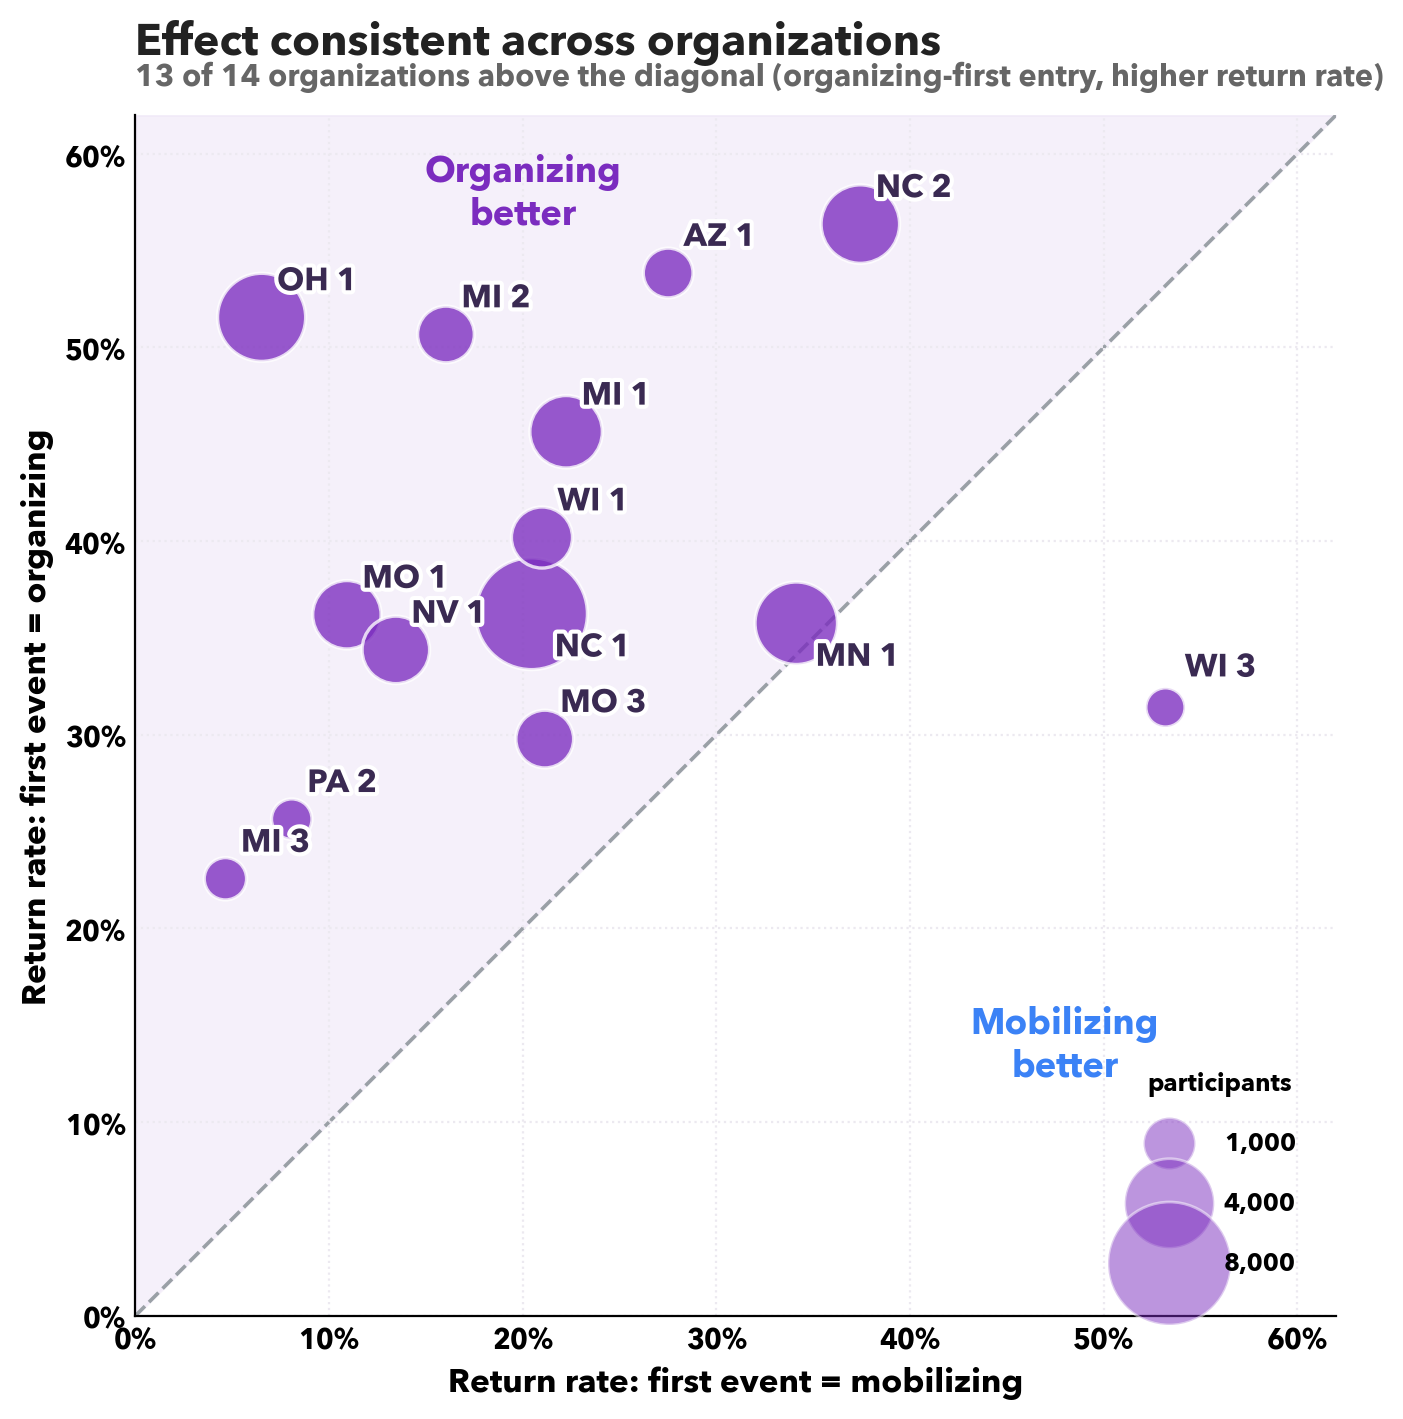
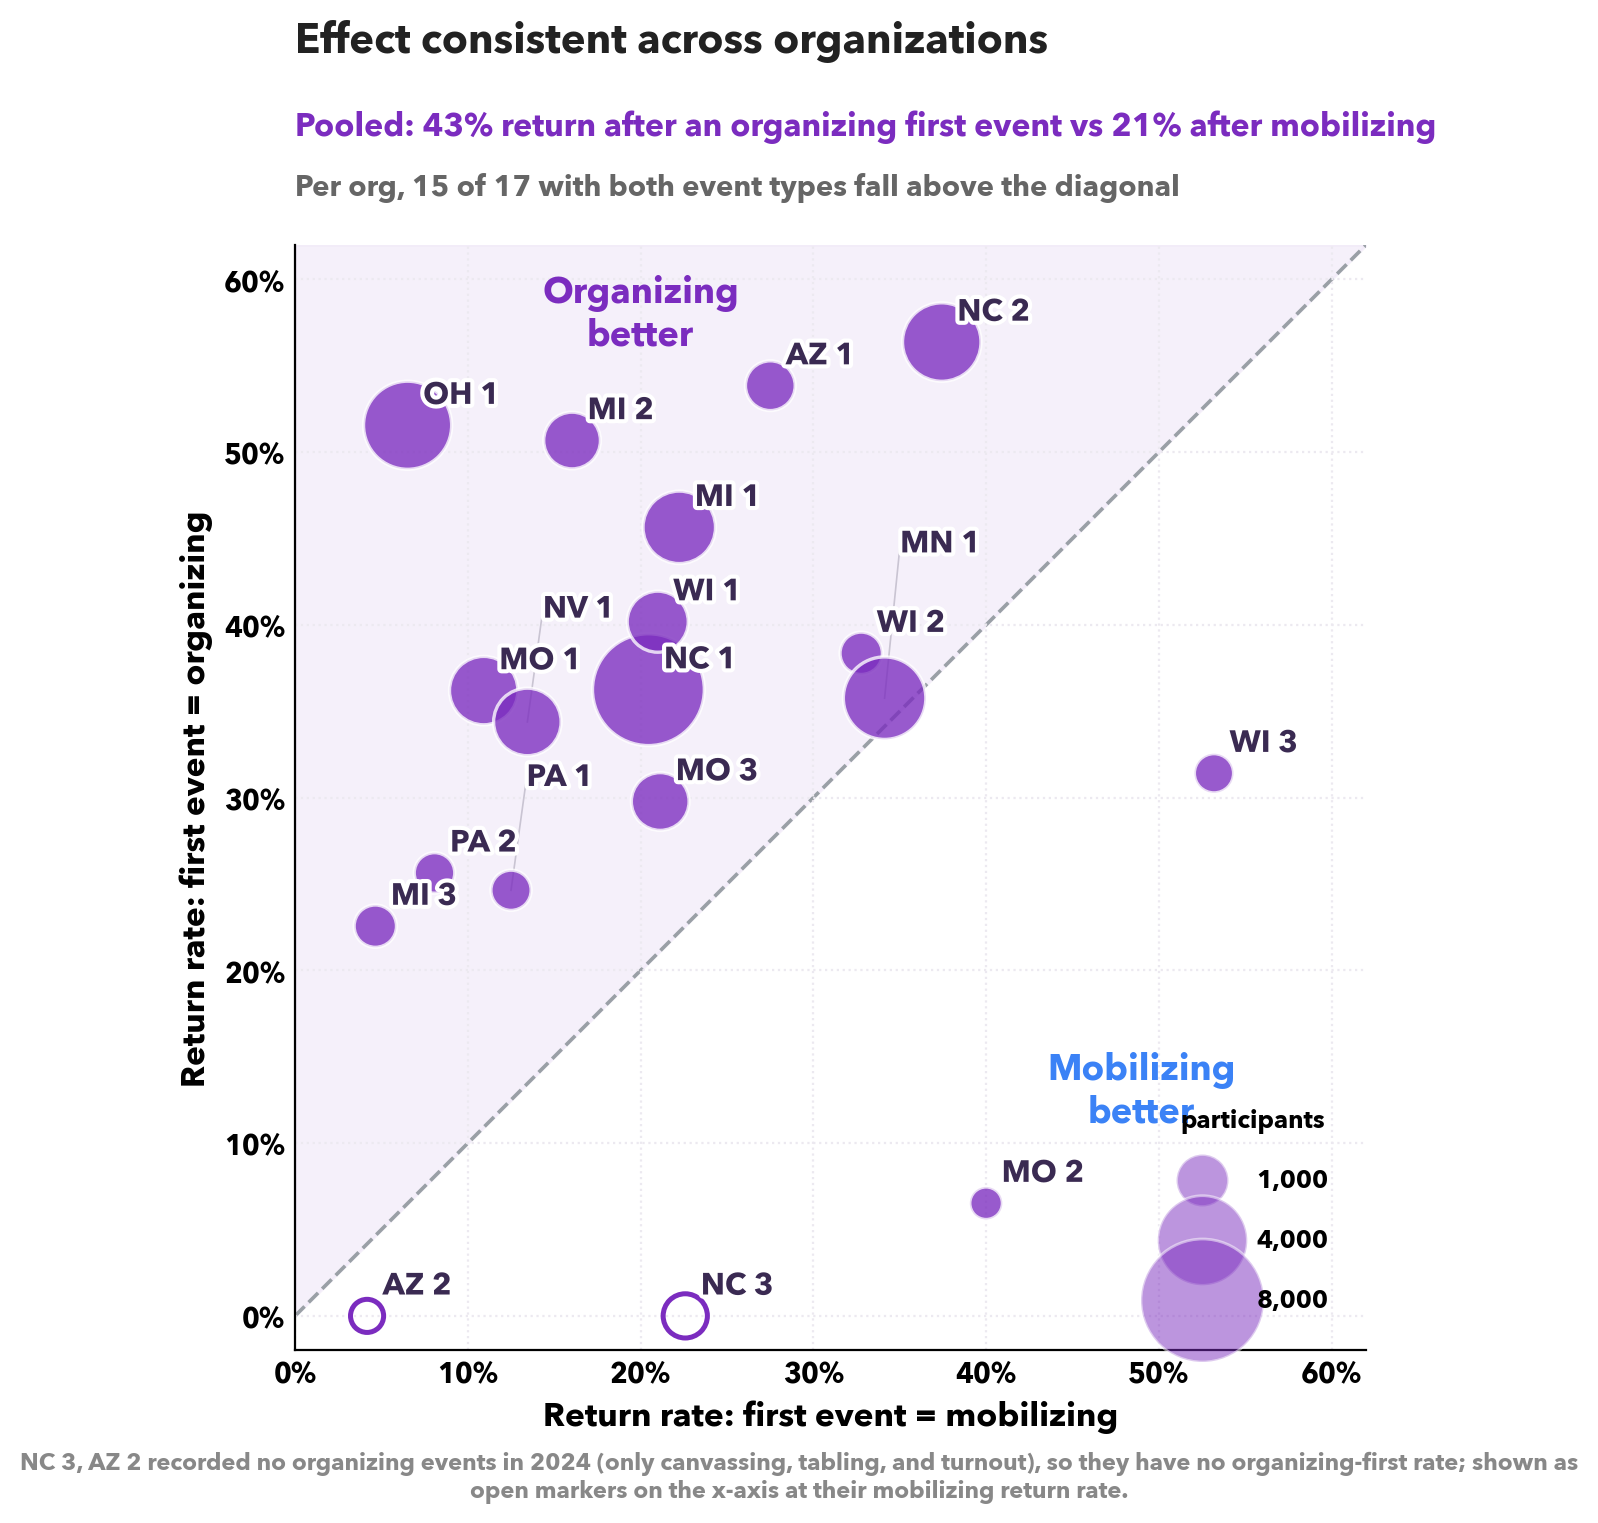
Slide 15: plot all 19 orgs; NC 3/AZ 2 (no organizing events) on x-axis; pooled 43/21 as topline

diff --git a/index.html b/index.html
@@ -1211,13 +1211,13 @@
         <div class="content wide">
             <div style="display: flex; gap: 2rem; align-items: center;">
                 <div style="flex: 1; max-width: 520px;">
-                    <img src="assets/first-event-by-org.png" alt="Scatter plot: 13 of 14 orgs show organizing advantage" style="width: 100%; border-radius: 8px; box-shadow: 0 4px 20px rgba(0,0,0,0.12);">
+                    <img src="assets/first-event-by-org.png" alt="Scatter plot: All 19 orgs: pooled 43% vs 21%, 15 of 17 with both event types above diagonal" style="width: 100%; border-radius: 8px; box-shadow: 0 4px 20px rgba(0,0,0,0.12);">
                 </div>
                 <div style="flex: 0 0 280px;">
                     <div class="statement-box" style="margin-bottom: 0.75rem;">
                         <p>The effect was consistent across organizations (most points above diagonal).</p>
                     </div>
-                    <p style="font-size: 0.95rem; color: var(--text-secondary); line-height: 1.5;">13 of 14 organizations above diagonal · organizing first → higher return rate</p>
+                    <p style="font-size: 0.95rem; color: var(--text-secondary); line-height: 1.5;">Pooled: 43% return after an organizing first event vs 21% after mobilizing. Per org, 15 of 17 with both event types fall above the diagonal (NC 3 and AZ 2 recorded no organizing events).</p>
                 </div>
             </div>
         </div>
